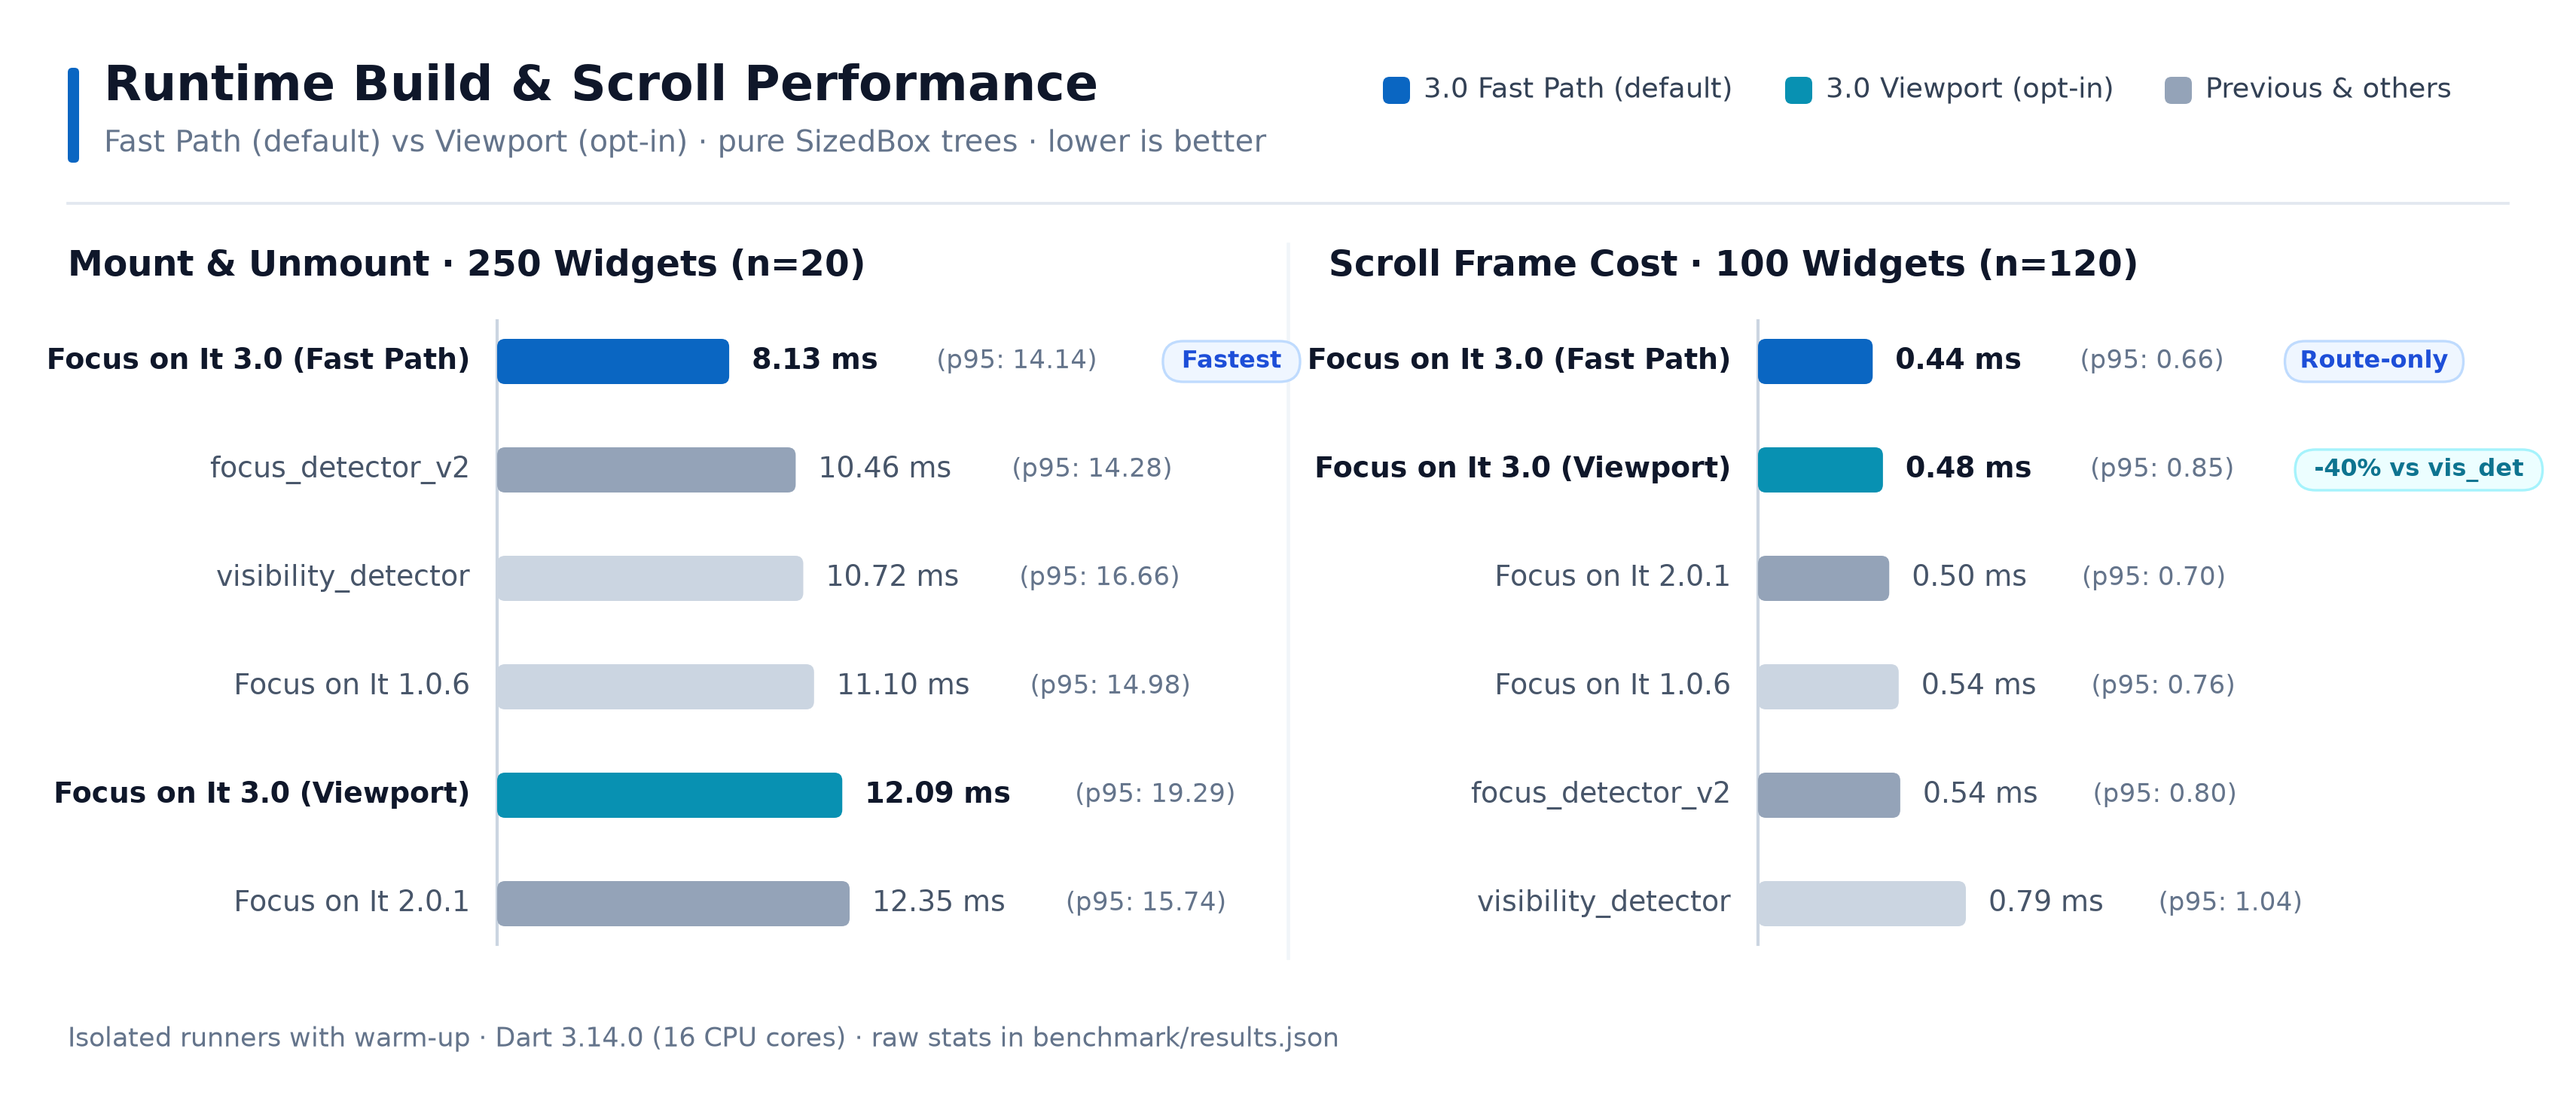
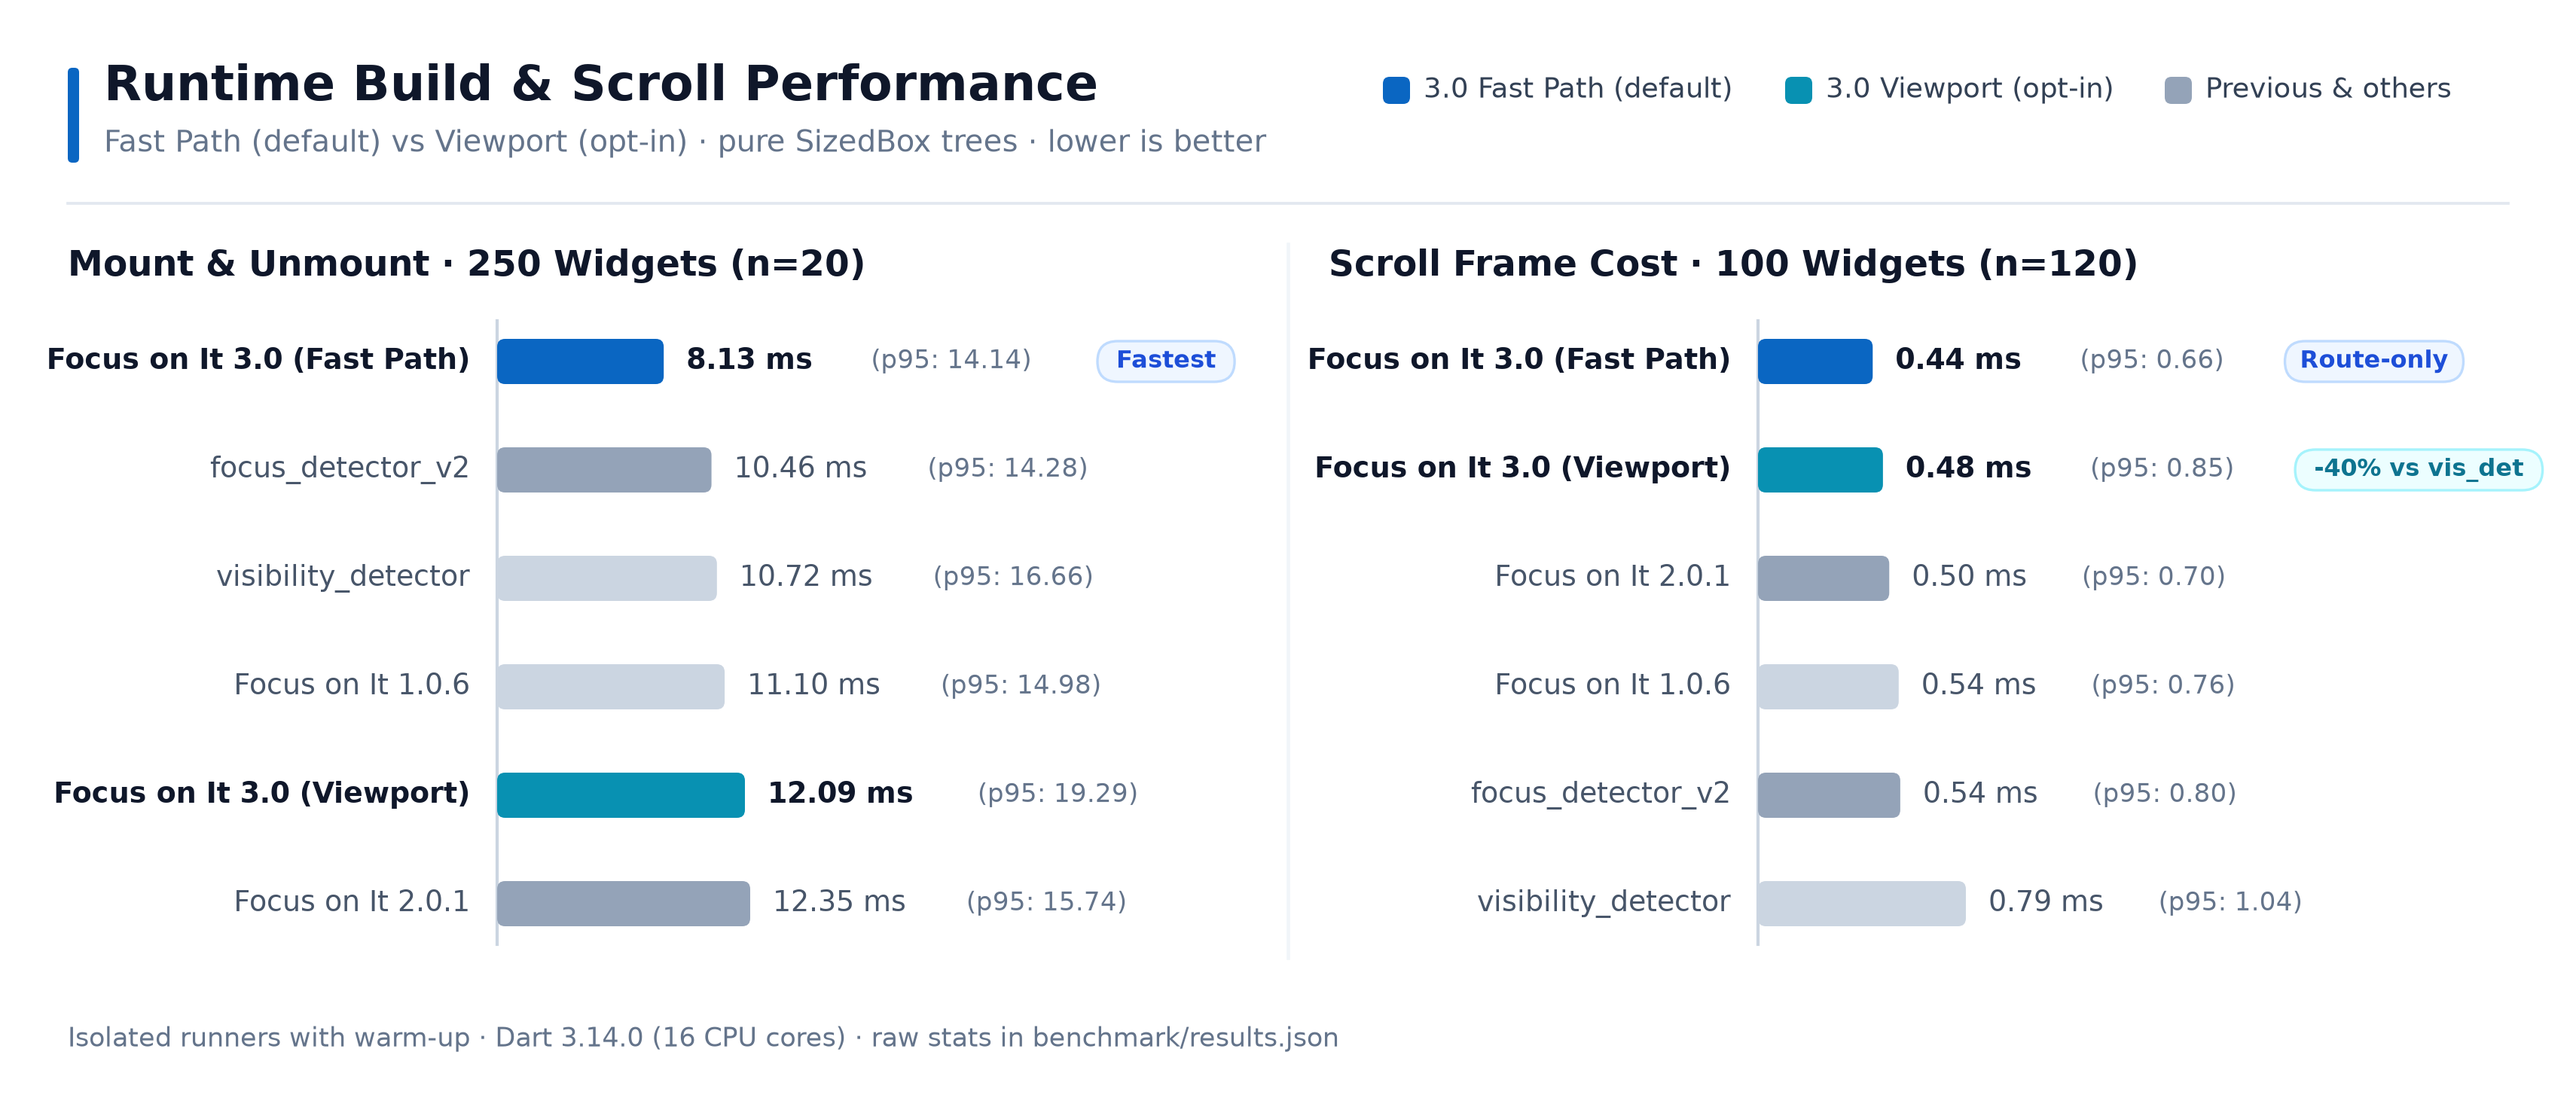
Enhance lifecycle management and performance optimizations in FocusOnIt and viewport handling

diff --git a/lib/src/engine/shared_lifecycle_hub.dart b/lib/src/engine/shared_lifecycle_hub.dart
@@ -38,7 +38,7 @@ class _OffstageWatchEntry {
 
   final RenderOffstage offstage;
   bool lastValue;
-  final List<SharedLifecycleClient> clients = [];
+  final Set<SharedLifecycleClient> clients = {};
 }
 
 class _IndexedStackWatchEntry {
@@ -46,7 +46,7 @@ class _IndexedStackWatchEntry {
 
   final RenderIndexedStack stack;
   int? lastIndex;
-  final List<SharedLifecycleClient> clients = [];
+  final Set<SharedLifecycleClient> clients = {};
 }
 
 /// Shared [AppLifecycleListener] hub per [WidgetsBinding] to avoid allocating
@@ -136,7 +136,7 @@ class SharedLifecycleHub {
       if (widget is Offstage && childWidget is PageStorage) {
         final renderObject = element.renderObject;
         if (renderObject is RenderOffstage) {
-          modalOffstage ??= renderObject;
+          modalOffstage = renderObject;
         }
       } else if (widget is IndexedStack || widget is Offstage) {
         hasHidden = true;
@@ -175,9 +175,7 @@ class SharedLifecycleHub {
       _offstageWatchesByNode[offstage] = entry;
       _offstageWatches.add(entry);
     }
-    if (!entry.clients.contains(client)) {
-      entry.clients.add(client);
-    }
+    entry.clients.add(client);
     _ensurePersistentFrameCallback();
   }
 
@@ -185,7 +183,7 @@ class SharedLifecycleHub {
   void unwatchOffstage(RenderOffstage offstage, SharedLifecycleClient client) {
     final entry = _offstageWatchesByNode[offstage];
     if (entry == null) return;
-    _removeFromList(entry.clients, client);
+    entry.clients.remove(client);
     if (entry.clients.isEmpty) {
       _offstageWatchesByNode.remove(offstage);
       _removeFromList(_offstageWatches, entry);
@@ -204,9 +202,7 @@ class SharedLifecycleHub {
       _indexedStackWatchesByNode[stack] = entry;
       _indexedStackWatches.add(entry);
     }
-    if (!entry.clients.contains(client)) {
-      entry.clients.add(client);
-    }
+    entry.clients.add(client);
     _ensurePersistentFrameCallback();
   }
 
@@ -217,7 +213,7 @@ class SharedLifecycleHub {
   ) {
     final entry = _indexedStackWatchesByNode[stack];
     if (entry == null) return;
-    _removeFromList(entry.clients, client);
+    entry.clients.remove(client);
     if (entry.clients.isEmpty) {
       _indexedStackWatchesByNode.remove(stack);
       _removeFromList(_indexedStackWatches, entry);
@@ -357,10 +353,10 @@ class SharedLifecycleHub {
   }
 
   static void _notifyClientsAncestorChanged(
-    List<SharedLifecycleClient> clients,
+    Set<SharedLifecycleClient> clients,
   ) {
-    for (var i = 0; i < clients.length; i++) {
-      clients[i].onAncestorVisibilityChanged();
+    for (final client in clients) {
+      client.onAncestorVisibilityChanged();
     }
   }
 
@@ -373,10 +369,13 @@ class SharedLifecycleHub {
       final batch = _pendingClients;
       _pendingClients = _flushingClients;
       _flushingClients = batch;
-      for (var i = 0; i < batch.length; i++) {
-        batch[i].onRouteSyncFlush();
+      try {
+        for (var i = 0; i < batch.length; i++) {
+          batch[i].onRouteSyncFlush();
+        }
+      } finally {
+        batch.clear();
       }
-      batch.clear();
     }
     if (_pendingRouteSyncs.isNotEmpty) {
       final callbacks = List<VoidCallback>.of(_pendingRouteSyncs);

diff --git a/test/widgets/focus_on_it_test.dart b/test/widgets/focus_on_it_test.dart
@@ -507,6 +507,69 @@ void main() {
         expect(controller.isFocused, isTrue);
       },
     );
+
+    testWidgets(
+      'reparenting with GlobalKey under a covering dialog stays unfocused',
+      (tester) async {
+        final navigatorKey = GlobalKey<NavigatorState>();
+        final targetKey = GlobalKey();
+        final controller = FocusOnItController();
+        addTearDown(controller.dispose);
+        var moveToSecondSlot = false;
+        late StateSetter rebuild;
+
+        await tester.pumpWidget(
+          WidgetsApp(
+            navigatorKey: navigatorKey,
+            color: const Color(0xFF000000),
+            pageRouteBuilder: <T>(settings, builder) => PageRouteBuilder<T>(
+              settings: settings,
+              pageBuilder: (context, _, __) => builder(context),
+            ),
+            home: StatefulBuilder(
+              builder: (_, setState) {
+                rebuild = setState;
+                return Row(
+                  children: [
+                    if (!moveToSecondSlot)
+                      FocusOnIt(
+                        key: targetKey,
+                        controller: controller,
+                        child: const Text('Moved'),
+                      ),
+                    if (moveToSecondSlot)
+                      FocusOnIt(
+                        key: targetKey,
+                        controller: controller,
+                        child: const Text('Moved'),
+                      ),
+                  ],
+                );
+              },
+            ),
+          ),
+        );
+
+        expect(controller.isFocused, isTrue);
+
+        navigatorKey.currentState!.push<void>(
+          PageRouteBuilder<void>(
+            opaque: false,
+            pageBuilder: (_, __, ___) => const Text('Dialog'),
+          ),
+        );
+        await tester.pump();
+        expect(controller.isFocused, isFalse);
+
+        rebuild(() => moveToSecondSlot = true);
+        await tester.pump();
+        expect(controller.isFocused, isFalse);
+
+        navigatorKey.currentState!.pop();
+        await tester.pumpAndSettle();
+        expect(controller.isFocused, isTrue);
+      },
+    );
   });
 
   group('app lifecycle', () {

diff --git a/lib/src/widgets/focus_on_it.dart b/lib/src/widgets/focus_on_it.dart
@@ -130,6 +130,7 @@ class _FocusOnItState extends State<FocusOnIt>
   List<RenderOffstage>? _watchedOffstages;
   List<({RenderIndexedStack stack, RenderObject child})>? _watchedIndexedStacks;
   Map<Element, int>? _dependents;
+  int _nextDependentPrune = 16;
   AppLifecycleListener? _exitListener;
 
   bool _tickerEnabled = true;
@@ -190,7 +191,6 @@ class _FocusOnItState extends State<FocusOnIt>
     _ancestorsCached = false;
     _hasIndexedOrOffstageAncestor = false;
     _clearAncestorWatches();
-    _modalRoute = null;
     _modalRouteOffstage = null;
     super.deactivate();
   }
@@ -458,6 +458,11 @@ class _FocusOnItState extends State<FocusOnIt>
       final dependents = _dependents ??= {};
       dependents[dependentContext] =
           (dependents[dependentContext] ?? 0) | aspect;
+      if (dependents.length >= _nextDependentPrune) {
+        dependents.removeWhere((element, _) => !element.mounted);
+        _nextDependentPrune =
+            dependents.length >= 16 ? dependents.length * 2 : 16;
+      }
     }
   }
 
@@ -477,7 +482,10 @@ class _FocusOnItState extends State<FocusOnIt>
 
     final focusedChanged = previous.isFocused != nextState.isFocused;
     dependents.removeWhere((element, aspect) {
-      if (!element.mounted) return true;
+      if (!element.mounted ||
+          element.findAncestorStateOfType<_FocusOnItState>() != this) {
+        return true;
+      }
       if ((aspect & _aspectState) != 0 ||
           (focusedChanged && (aspect & _aspectFocused) != 0)) {
         element.markNeedsBuild();

diff --git a/test/engine/viewport_geometry_test.dart b/test/engine/viewport_geometry_test.dart
@@ -73,6 +73,9 @@ void main() {
       const size = Size(100, 100);
       final singular = Matrix4.zero()..setEntry(3, 3, 1);
       final nonFinite = Matrix4.translationValues(double.nan, 0, 0);
+      final zeroScaleRotated = Matrix4.translationValues(100, 100, 0)
+        ..multiply(Matrix4.rotationZ(math.pi / 4))
+        ..multiply(Matrix4.diagonal3Values(0, 1, 1));
 
       expect(
         computeRotatedVisibility(
@@ -86,6 +89,14 @@ void main() {
         computeRotatedVisibility(
           size: size,
           transform: nonFinite,
+          clipRect: const Rect.fromLTWH(0, 0, 200, 200),
+        ).visibleFraction,
+        0.0,
+      );
+      expect(
+        computeRotatedVisibility(
+          size: size,
+          transform: zeroScaleRotated,
           clipRect: const Rect.fromLTWH(0, 0, 200, 200),
         ).visibleFraction,
         0.0,

diff --git a/lib/src/engine/viewport_geometry.dart b/lib/src/engine/viewport_geometry.dart
@@ -54,17 +54,17 @@ bool isAxisAlignedTransform(Matrix4 transform) {
     return (visibleFraction: 0.0, visibleBounds: Rect.zero);
   }
 
+  final quad = <Offset>[c0, c1, c2, c3];
+  final totalArea = _polygonArea(quad);
+  if (!totalArea.isFinite || totalArea <= 0) {
+    return (visibleFraction: 0.0, visibleBounds: Rect.zero);
+  }
+
   if (minX >= clipRect.left &&
       maxX <= clipRect.right &&
       minY >= clipRect.top &&
       maxY <= clipRect.bottom) {
     return (visibleFraction: 1.0, visibleBounds: Offset.zero & size);
-  }
-
-  final quad = <Offset>[c0, c1, c2, c3];
-  final totalArea = _polygonArea(quad);
-  if (!totalArea.isFinite || totalArea <= 0) {
-    return (visibleFraction: 0.0, visibleBounds: Rect.zero);
   }
 
   var clipped = _clipAgainstEdge(

diff --git a/benchmark/plot_benchmarks.py b/benchmark/plot_benchmarks.py
@@ -165,7 +165,7 @@ def _draw_metric_panel(
 
     label_x = px + 178
     bar_x = px + 190
-    bar_max_w = 92 if row_badges else 156
+    bar_max_w = 92 if row_badges else (112 if highlight_fastest_v3 else 156)
     bar_h = 20
     row_ys = [330, 282, 234, 186, 138, 90]
 

diff --git a/CHANGELOG.md b/CHANGELOG.md
@@ -3,16 +3,19 @@
 ### Bug Fixes
 - **Hub lifecycle memory leak (`SharedLifecycleHub`):** moved hub tracking to `Expando<SharedLifecycleHub>` with lazy `AppLifecycleListener` attachment and a single persistent frame callback per binding, avoiding stale callback retention when all widgets unmount.
 - **`triggerOnInit: false` + `viewport` race condition:** deferred initial setup completion until both route and first viewport measurements arrive, preventing unexpected initial `onFocus` callbacks.
-- **Dwell timer visibility state sync:** kept `FocusStateMachine.isVisible` aligned with `state.isVisible` when backgrounded while a dwell timer is running.
+- **Dwell timer visibility state sync:** kept `FocusStateMachine.isVisible` aligned with `state.isVisible` when backgrounded while a dwell timer is running, and preserved visibility across `viewport` enable transitions.
 - **No post-frame `InheritedWidget` dependencies:** cached `FlutterView` inside `mount`/`didChangeDependencies` and switched fallback `MediaQuery` reads to non-subscribing lookups inside `ViewportVisibilityTracker`.
-- **Resilient `ModalRoute` offstage handling & O(1) ancestor cache:** added `ModalRoute` offstage state fallback for hero transitions and cached ancestor `RenderIndexedStack` / `RenderOffstage` lookups to avoid per-frame tree walks.
+- **Build-phase safety & dynamic config updates:** deferred config/controller synchronization out of `didUpdateWidget`/`initState` into post-frame flushes, added dynamic `threshold` re-evaluation without scrolling, updated `FocusState` before firing `onVisibilityChanged`, and added `NaN`/`_disposed` re-entrancy guards.
+- **`GlobalKey` reparenting & nested routes:** added `deactivate`/`activate` lifecycle handling across `FocusOnIt` and `ViewportVisibilityTracker`, matched innermost `ModalRoute` offstage nodes in nested `Navigator`s, and tracked `IndexedStack` children by `RenderObject` identity.
 
 ### Features
 - **Configurable dwell on resume (`FocusViewportConfig.applyDwellOnResume`):** defaults to `false` for immediate resume when returning from background, with opt-in `true` for impression/analytics dwell behavior.
+- **Non-scrollable clips, exact rotation geometry & paint-only animations:** `viewport` mode now intersects ancestor `describeApproximatePaintClip` bounds (`ClipRect`, `ClipRRect`, `ClipOval`, `ClipPath`), computes exact Sutherland-Hodgman polygon visibility for rotated/skewed targets, and re-measures on paint-only transforms (`SlideTransition`, `Transform.translate`).
+- **Engine & runtime performance:** removed the per-widget `FocusOnItScope` wrapper in favor of lazy dependent tracking, switched `FocusOnIt` and viewport trackers to direct hub client interfaces (`SharedLifecycleClient` / `ViewportTrackerClient`), added shared per-`ScrollPosition` listener groups, reused per-frame ancestor scan/transform/clip/scrollable caches, and pooled common `const FocusState` snapshots.
 
 ### Documentation & Benchmarks
 - Updated benchmark chart framing (`No 500ms timer`, neutral dialog scope pills, and direct scroll comparison between `3.0 (Viewport)` and `visibility_detector`).
-- Added cross-platform lifecycle notes, trade-offs, and expanded widget tests covering `NestedScrollView`, nested `Navigator` tabs in `IndexedStack`, dwell + resume, and desktop/web states.
+- Streamlined `README.md` with cross-platform lifecycle notes and trade-offs, updated `example/pubspec.yaml`, added `library;` docs, and expanded engine/widget test suites.
 
 ## 3.0.0-dev.1
 
